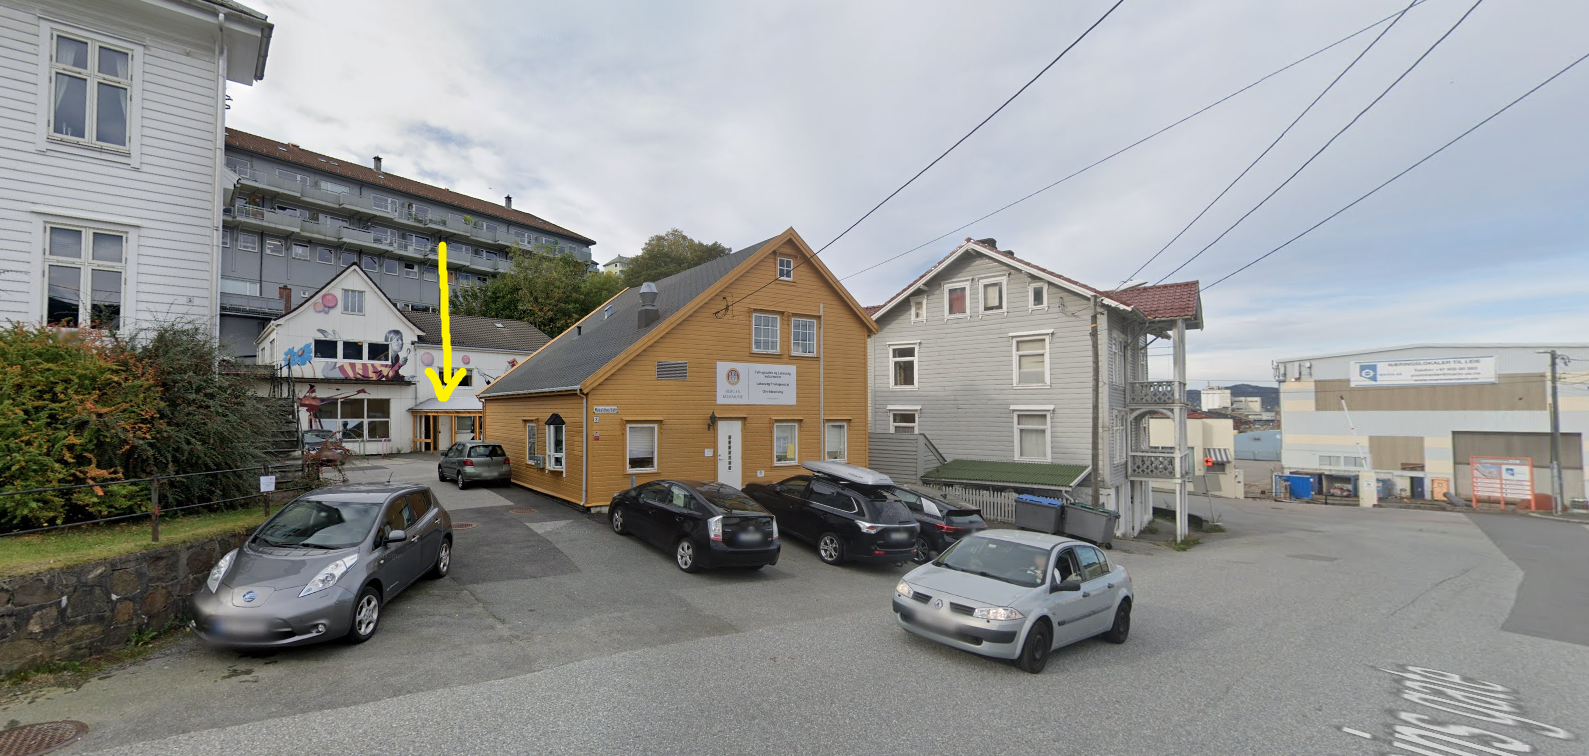
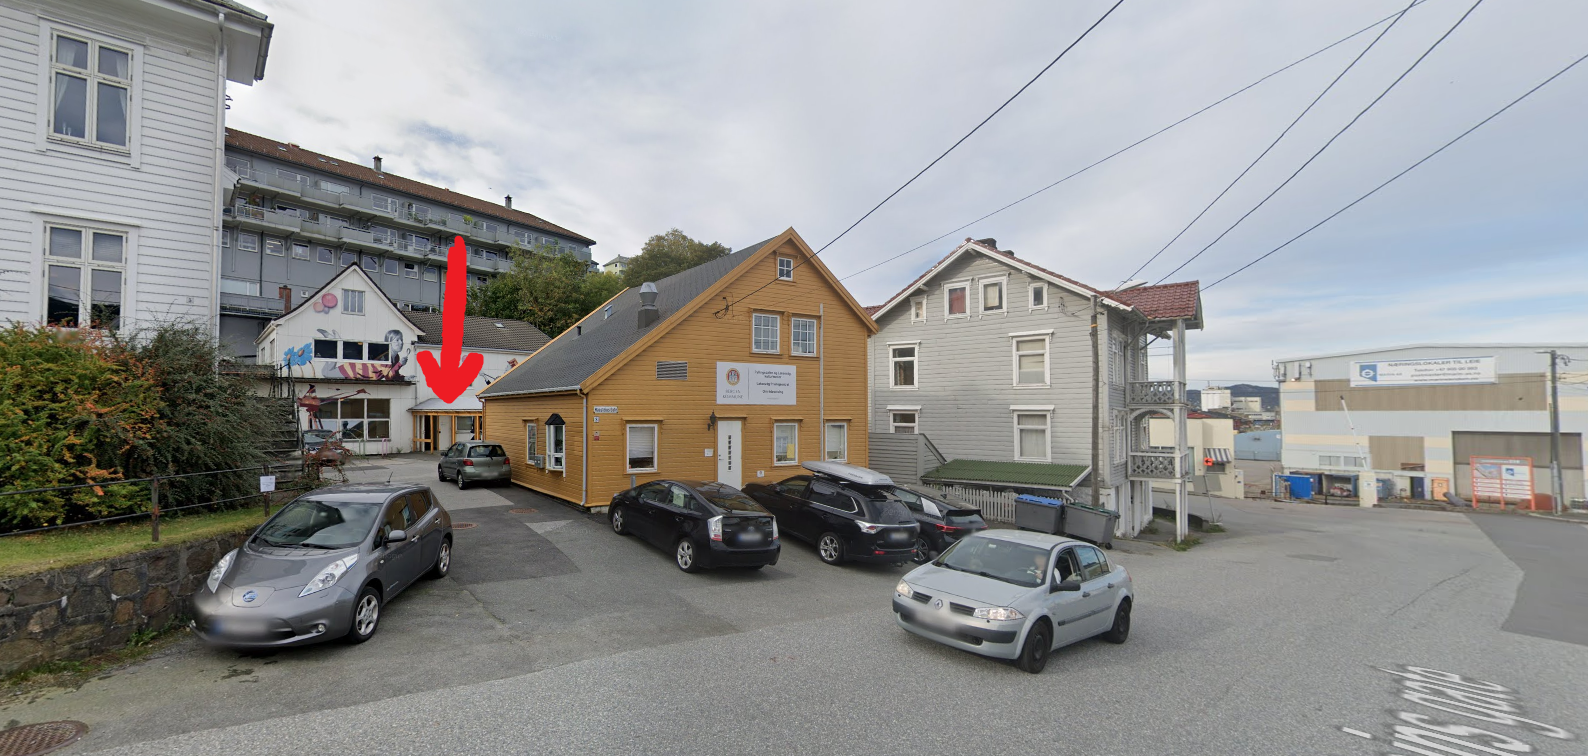
adjusted max-w and changed arrow to thicker red

diff --git a/pages/treningstider.jsx b/pages/treningstider.jsx
@@ -57,15 +57,15 @@ const Treningstider = () => {
         {/* block 3 */}
         {/* className="mx-auto max-w-[800px] w-[90%] mb-4  justify-center items-center" */}
         <div className="col-span-2 mt-4 md:mt-0 md:mb-8">
-          <div className="mx-auto max-w-[1024px] w-[90%] items-center flex justify-center flex-col ">
+          <div className="mx-auto max-w-[768px] w-[90%] items-center flex justify-center flex-col ">
             <Image
               src={venue_img_with_pointer}
-              className="rounded-sm max-h-[400px]"
-              alt="inngang sett fra veien"
+              className="rounded-sm max-h-[500px]"
+              alt="Inngang sett fra parkeringen"
             ></Image>
-            <h3 className="text-xl font-bold text-center text-white md:mb-2 md:order-first">
+            <p className="text-xl text-center text-white md:mb-2">
               Inngang sett fra parkeringen
-            </h3>
+            </p>
           </div>
         </div>
       </div>
